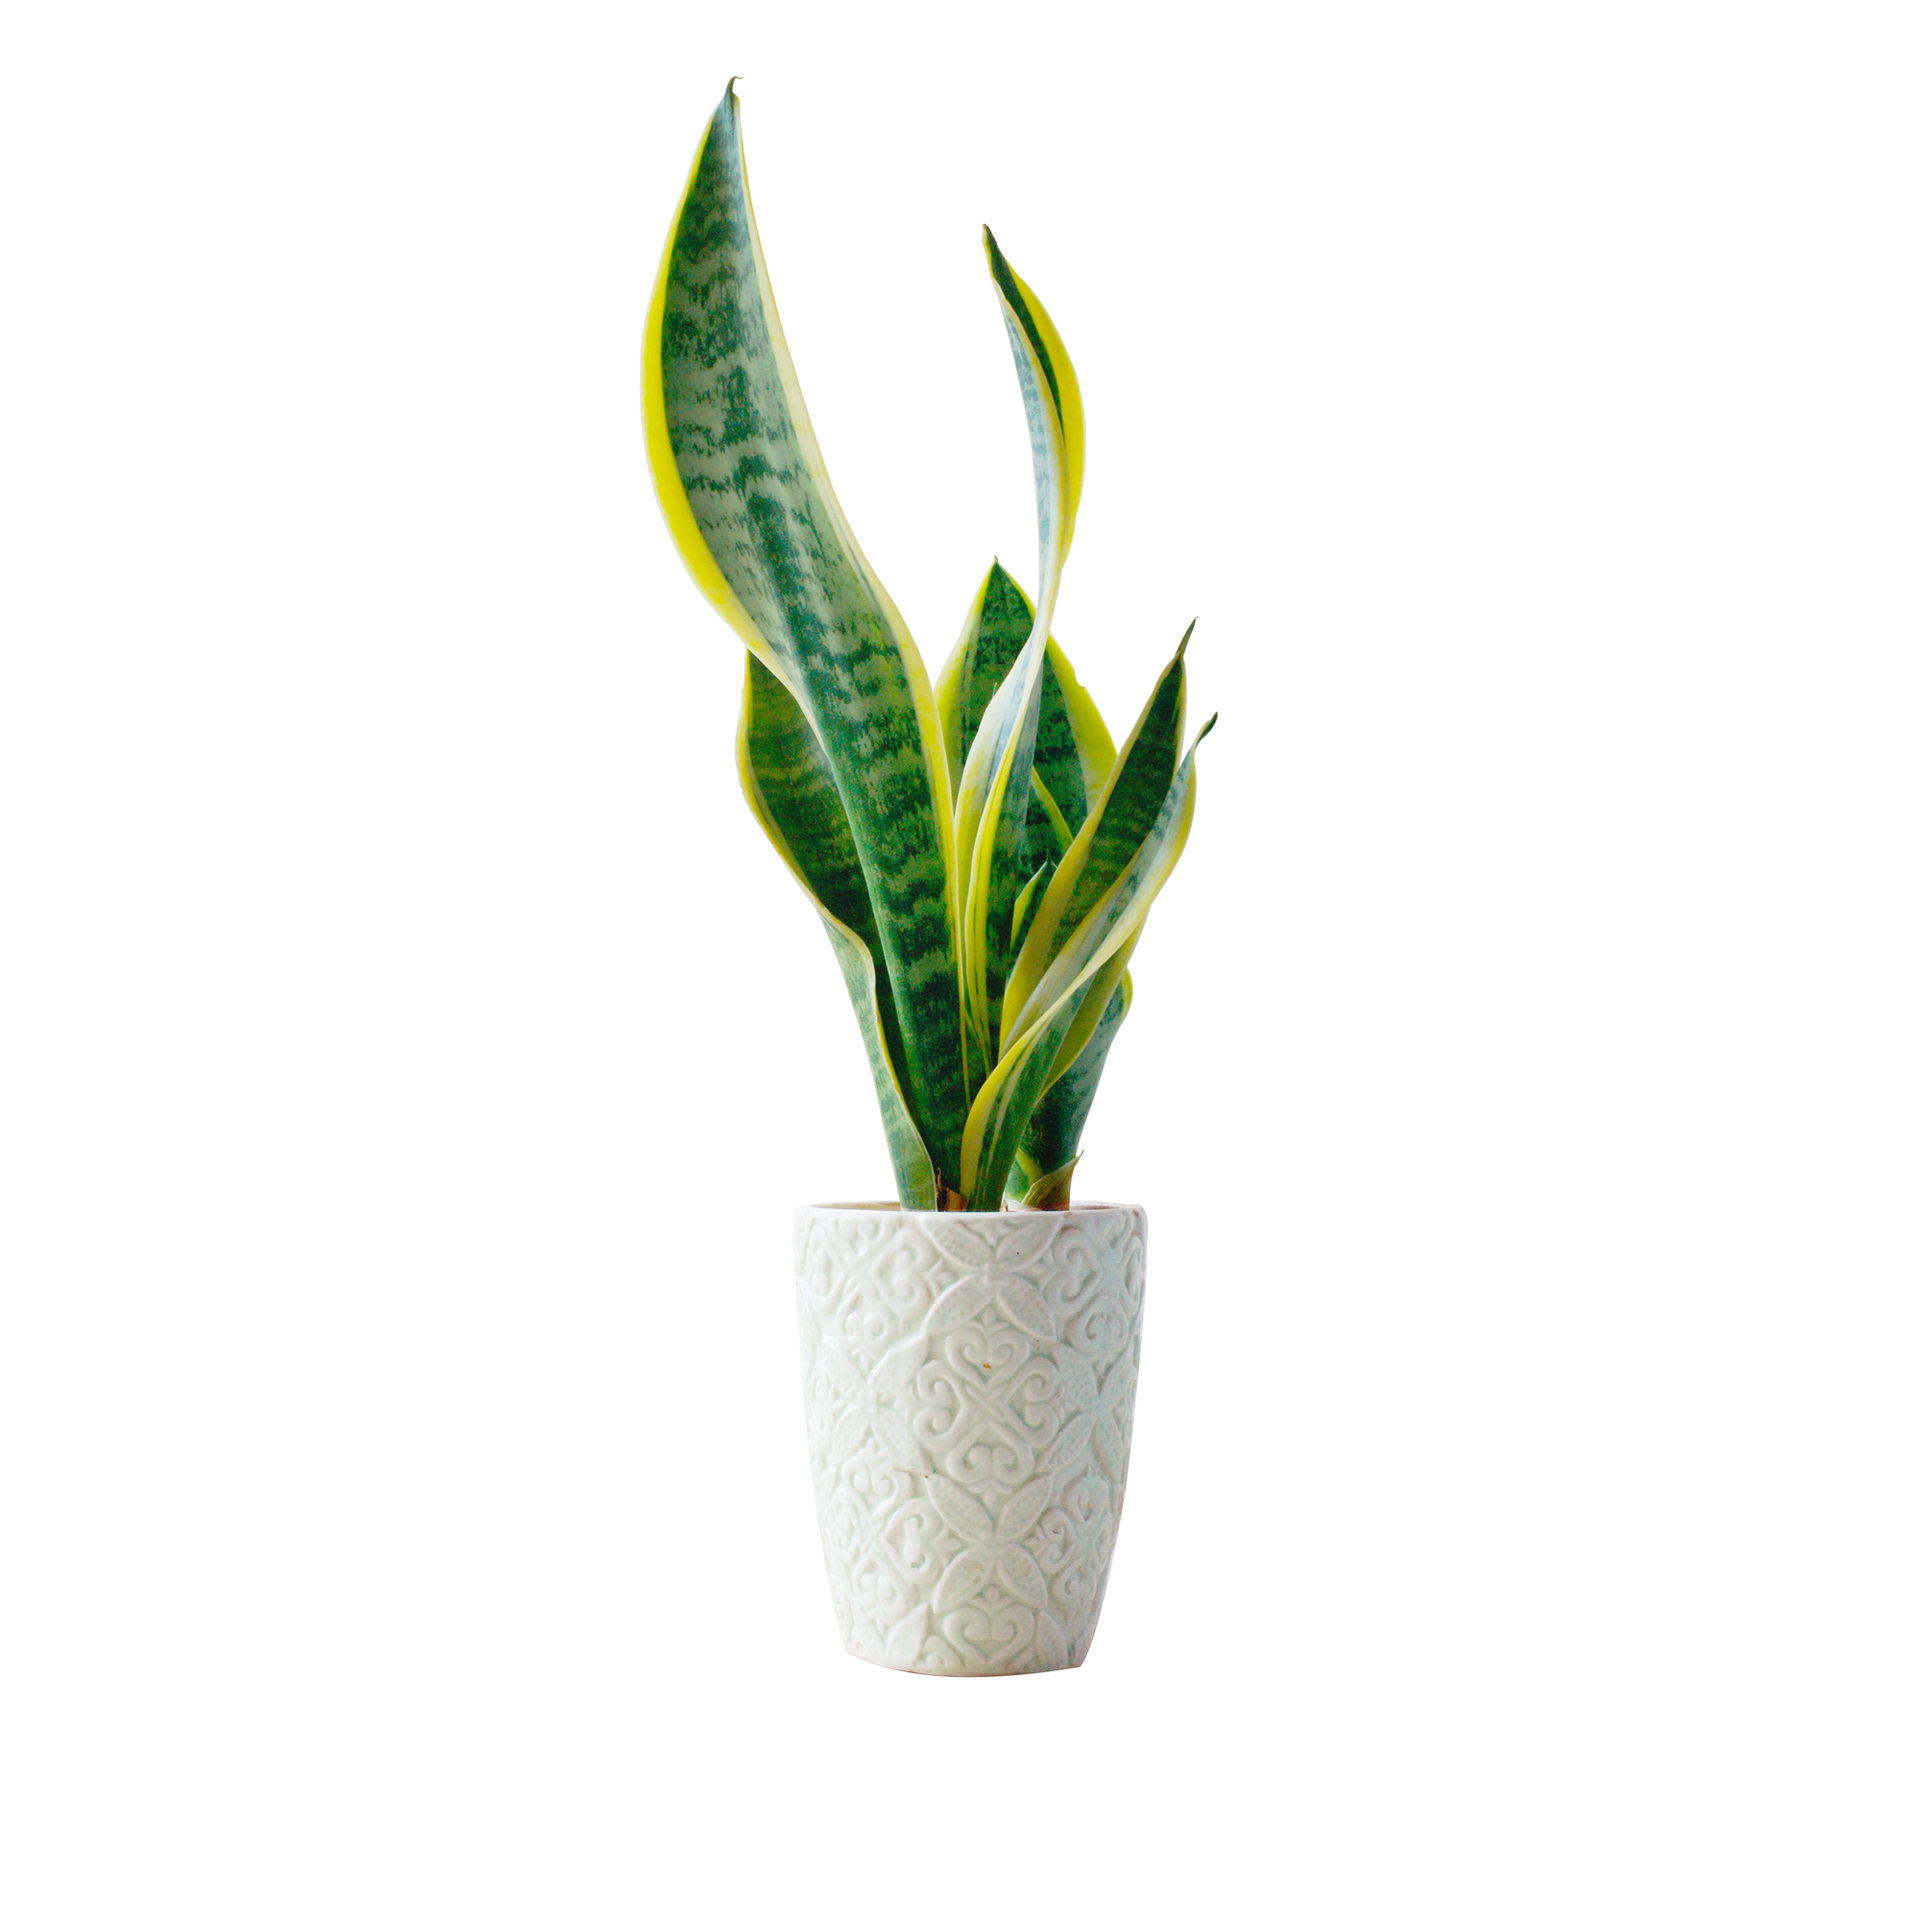
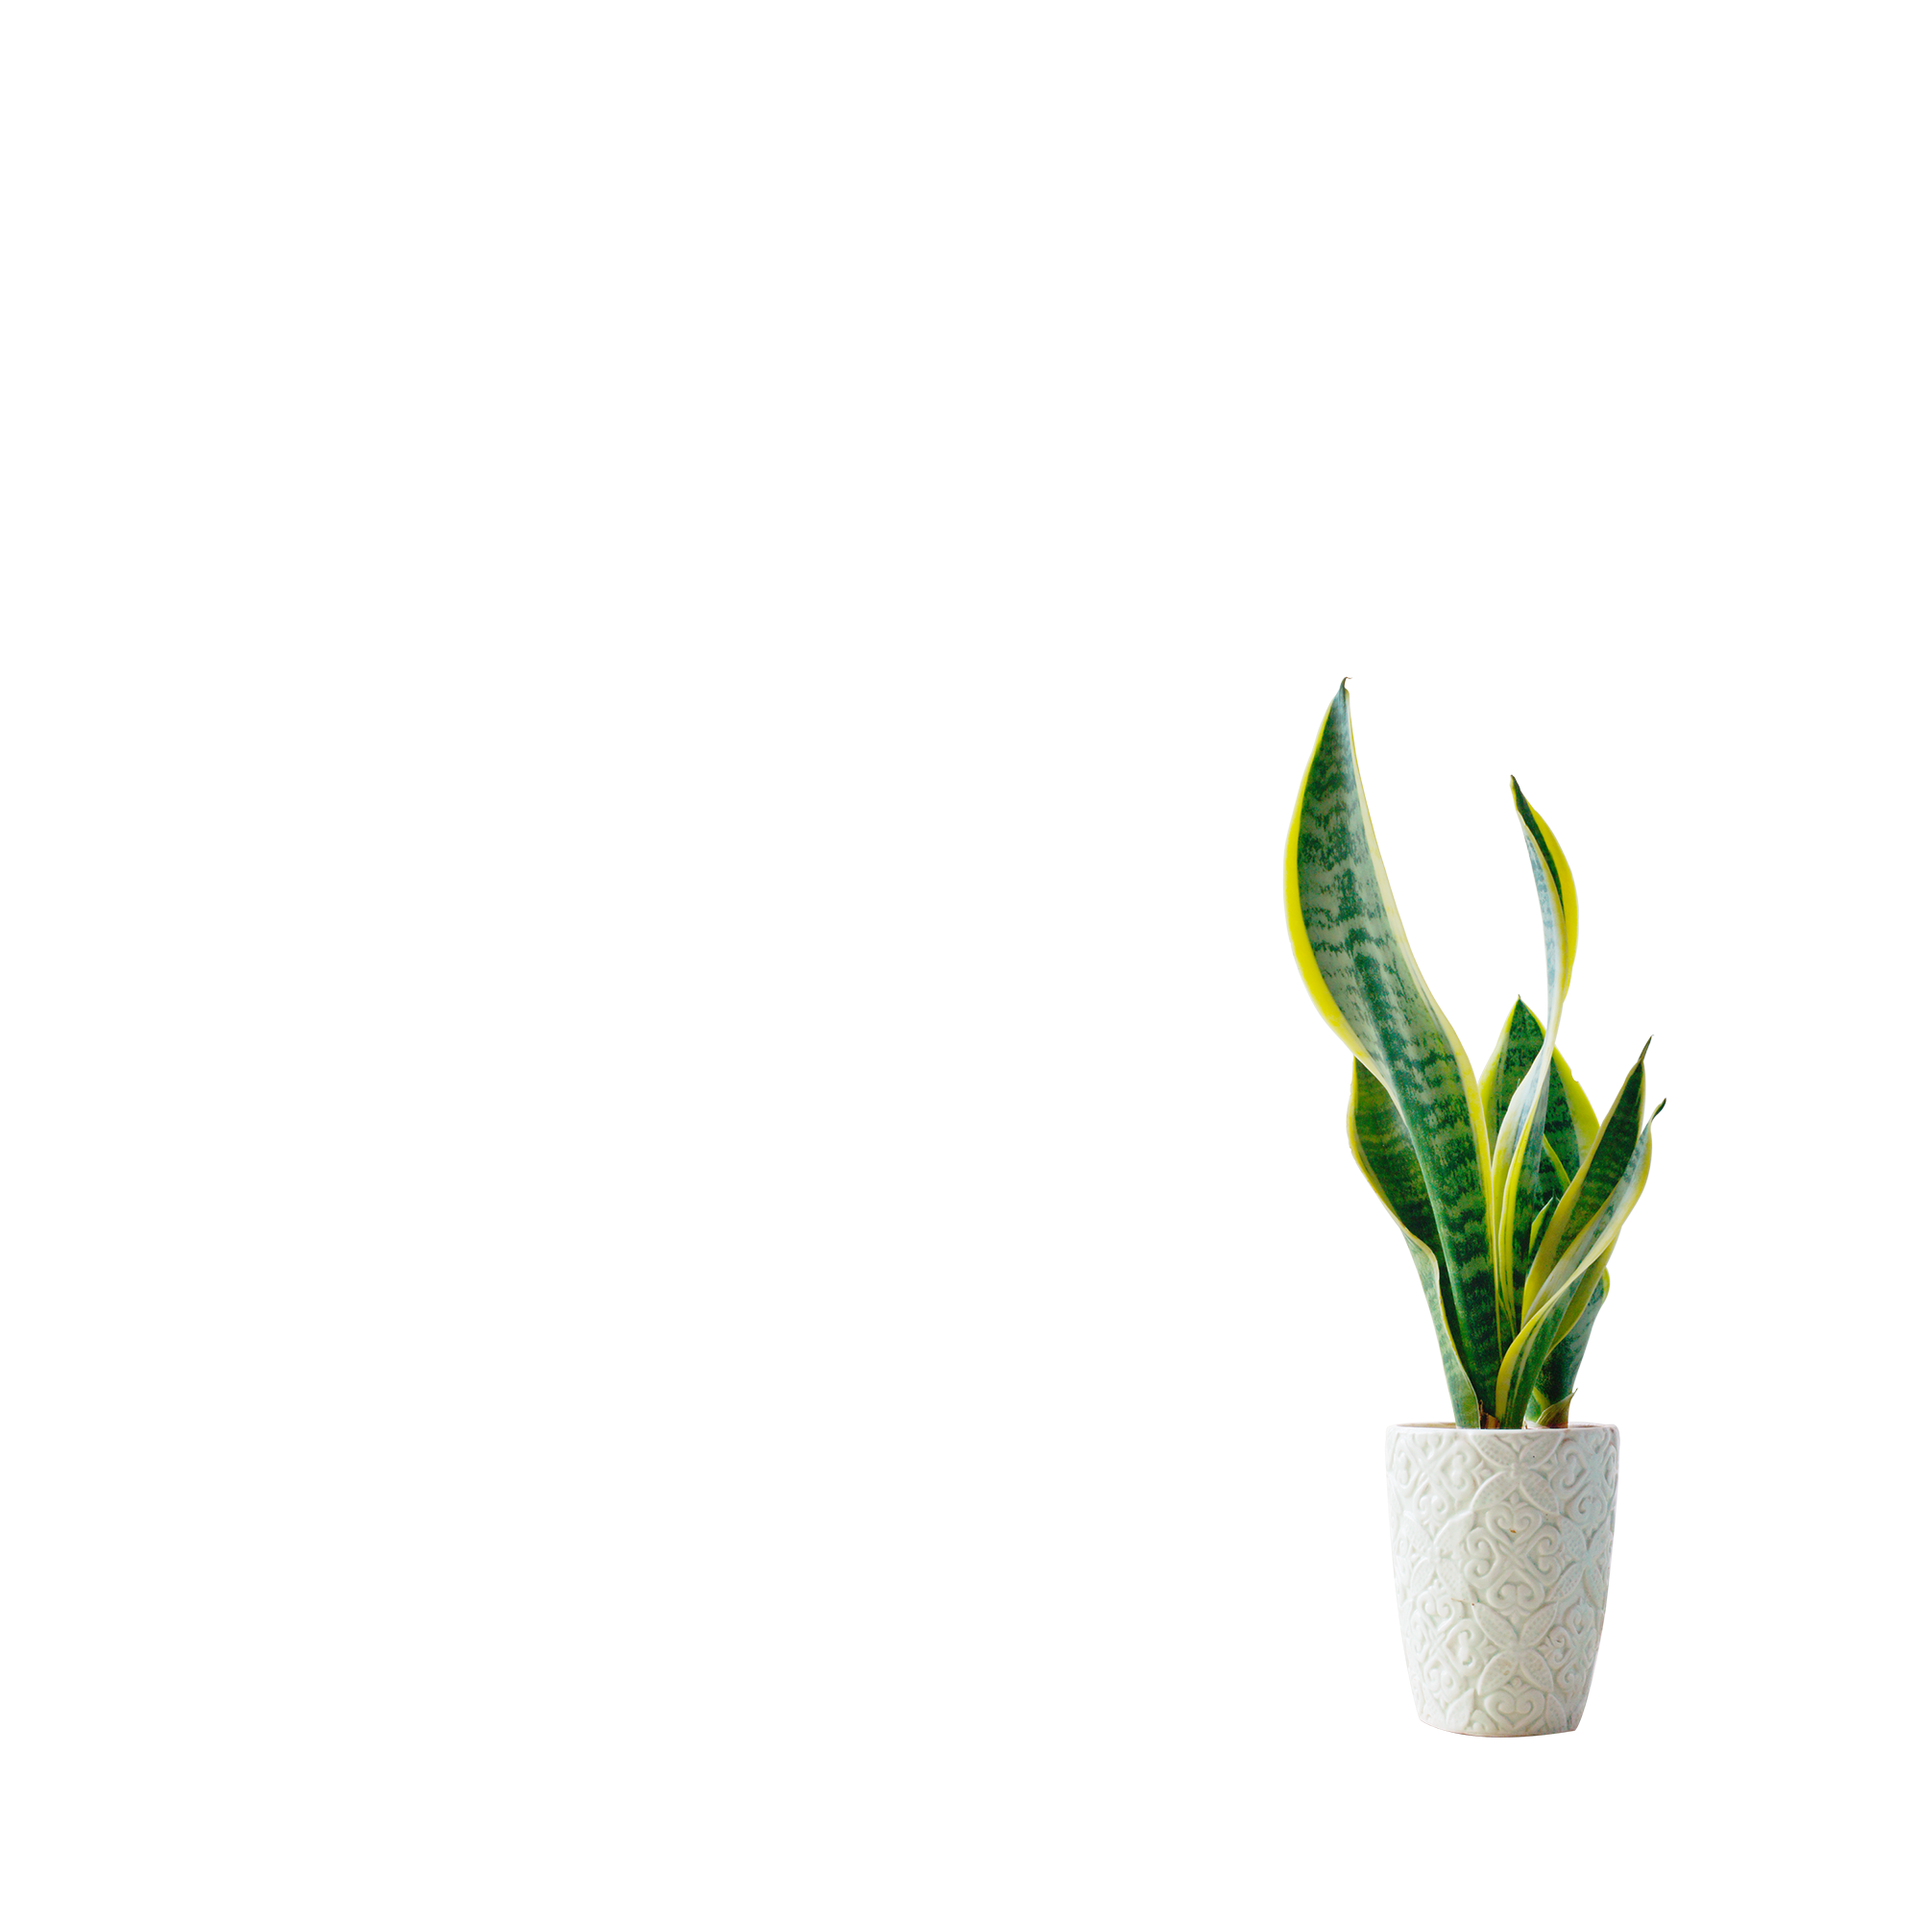
comit

Changed region(s): [[0.31, 0.031, 0.651, 0.899], [0.651, 0.341, 0.868, 0.93]]

diff --git a/src/config.js b/src/config.js
@@ -6,22 +6,26 @@ const { NETWORK } = require(`${basePath}/constants/network.js`);
 const network = NETWORK.eth;
 
 // General metadata for Ethereum
-const namePrefix = "A World Seen by a Vase";
-const description = "A simple vision of the world.";
+const namePrefix = "From My Window";
+const description = "This is a compilation I put together while I was depressed, and I hope it brings joy to someone else.";
 const baseUri = "ipfs://NewUriToReplace"; // This will be replaced automatically
 
 // If you have selected Solana then the collection starts from 0 automatically
 const layerConfigurations = [
   {
-    growEditionSizeTo: 10000,
+    growEditionSizeTo: 100,
     layersOrder: [
       { name: "Sky" },
       { name: "Foreground" },
       { name: "Ground" },
-      { name: "Pure Backgrouns" },
-      { name: "Table&Chair" },
-      { name: "Shadow" },
+      { name: "Left Trees" },
+      { name: "Right Trees" },
+      { name: "Wall W" },
+      { name: "Window" },
+      { name: "Table Chair" },
       { name: "Vase" },
+      { name: "Shadow" },
+      { name: "Color Filter" },
     ],
   },
 ];
@@ -31,8 +35,8 @@ const shuffleLayerConfigurations = true;
 const debugLogs = false;
 
 const format = {
-  width: 800,
-  height: 800,
+  width: 2000,
+  height: 2000,
   smoothing: false,
 };
 
@@ -42,10 +46,10 @@ const extraMetadata = {
 
 // NFTPort Info
 // ** REQUIRED **
-const AUTH = "fa987ff4-96ea-4036-824d-9d785957cfc0";
+const AUTH = "5232be5d-e350-424c-858e-2a194cbfa015";
 const LIMIT = 2; // Your API key rate limit
-const CONTRACT_NAME = 'A World Seen by a Vase';
-const CONTRACT_SYMBOL = 'SbV';
+const CONTRACT_NAME = 'From My Window';
+const CONTRACT_SYMBOL = 'FW';
 const CONTRACT_TYPE = 'erc721';
 const MINT_TO_ADDRESS = '0x9f221d9ca06cb8e8f1b88689ecfe462579ffa2d8';
 const CHAIN = 'Polygon';
@@ -53,7 +57,7 @@ const METADATA_UPDATABLE = true; // set to false if you don't want to allow meta
 const ROYALTY_SHARE = 1000; // Percentage of the token price that goes to the royalty address. 100 bps = 1%
 const ROYALTY_ADDRESS = "0x9f221d9ca06cb8e8f1b88689ecfe462579ffa2d8"; // Address that will receive the royalty
 // ** OPTIONAL **
-let CONTRACT_ADDRESS = "0x860EcBe68961B20db88Ab6759Dc1b1B01b00F0E6"; // If you want to manually include it
+let CONTRACT_ADDRESS = ""; // If you want to manually include it
 // Generic Metadata is optional if you want to reveal your NFTs
 const GENERIC = false; // Set to true if you want to upload generic metas and reveal the real NFTs in the future
 const GENERIC_TITLE = "Unknown"; // Replace with what you want the generic titles to say.
@@ -79,7 +83,7 @@ try {
 // END NFTPort Info
 
 const solanaMetadata = {
-  symbol: "PL",
+  symbol: "FW",
   seller_fee_basis_points: 1000, // Define how much % you want from secondary market sales 1000 = 10%
   external_url: "https://www.origincreationagr.xyz",
   creators: [
@@ -177,4 +181,4 @@ module.exports = {
   METADATA_UPDATABLE,
   ROYALTY_SHARE,
   ROYALTY_ADDRESS,
-};
+}
